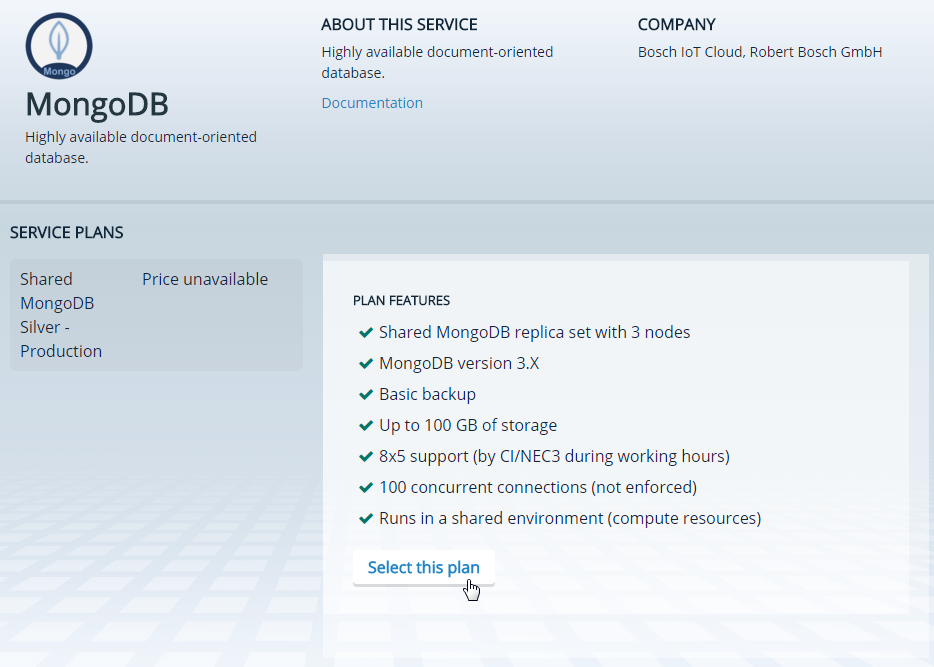
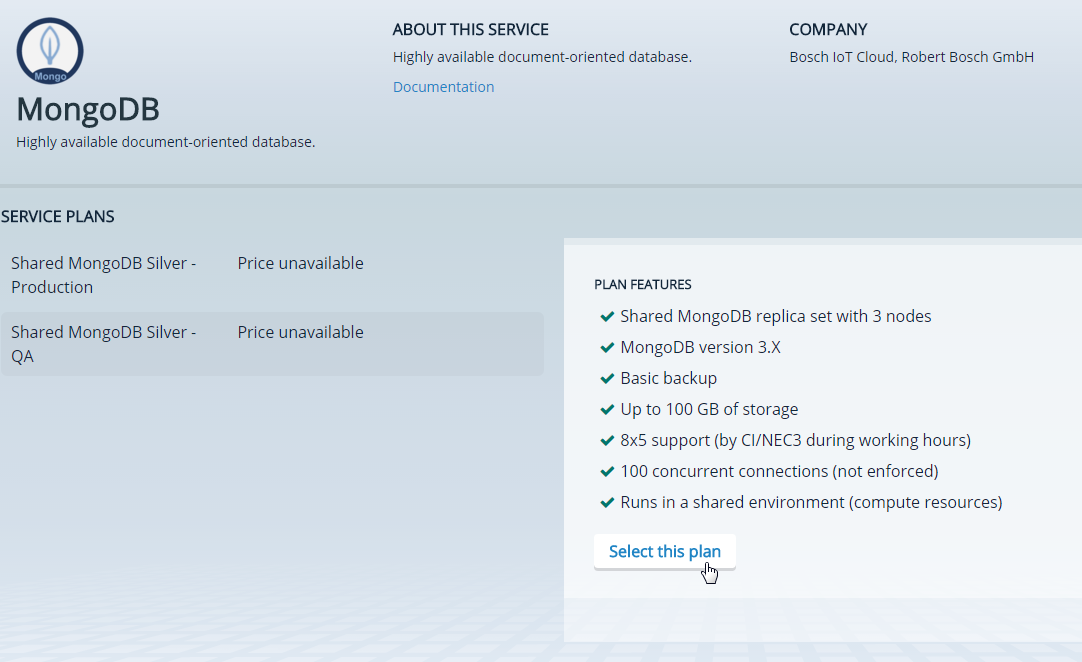
Doc Update with Mongo DB Service Plan

diff --git a/doc/Guides/Getting Started.html b/doc/Guides/Getting Started.html
@@ -452,7 +452,7 @@ Add the <em>MongoDB</em> service to your space:
 <img src="./resources/img/img_cloudspace_empty.png" alt="Empty space in the developer console" /></li>
 <li>Select the <em>MongoDB</em> Service.<br />
 <img src="./resources/img/img_marketplace.png" alt="IoT marketplace" /></li>
-<li>Choose the <em>Silver - Production</em> service plan and click on <strong>Select this plan</strong>.<br />
+<li>Choose the <em>Shared MongoDB Silver - QA</em> service plan and click on <strong>Select this plan</strong>.<br />
 <img src="./resources/img/img_selectplan_mongo.png" alt="Select plan" /></li>
 <li>In the following dialog use <code>xdk_service_storage</code> for the service instance id.</li>
 <li>Select your <em>HackXX</em> space and hit the <strong>Add</strong> button.<br />

diff --git a/doc/Guides/Getting Started.md b/doc/Guides/Getting Started.md
@@ -134,7 +134,7 @@ In this step you will set up your Bosch IoT Cloud Space to prepare it for XDK Cl
   ![Empty space in the developer console][img_cloudspace_empty]
   2. Select the *MongoDB* Service.  
   ![IoT marketplace][img_marketplace]
-  3. Choose the *Silver - Production* service plan and click on **Select this plan**.  
+  3. Choose the *Shared MongoDB Silver - QA* service plan and click on **Select this plan**.  
   ![Select plan][img_selectplan_mongo]
   4. In the following dialog use `xdk_service_storage` for the service instance id.
   5. Select your *HackXX* space and hit the **Add** button.  
